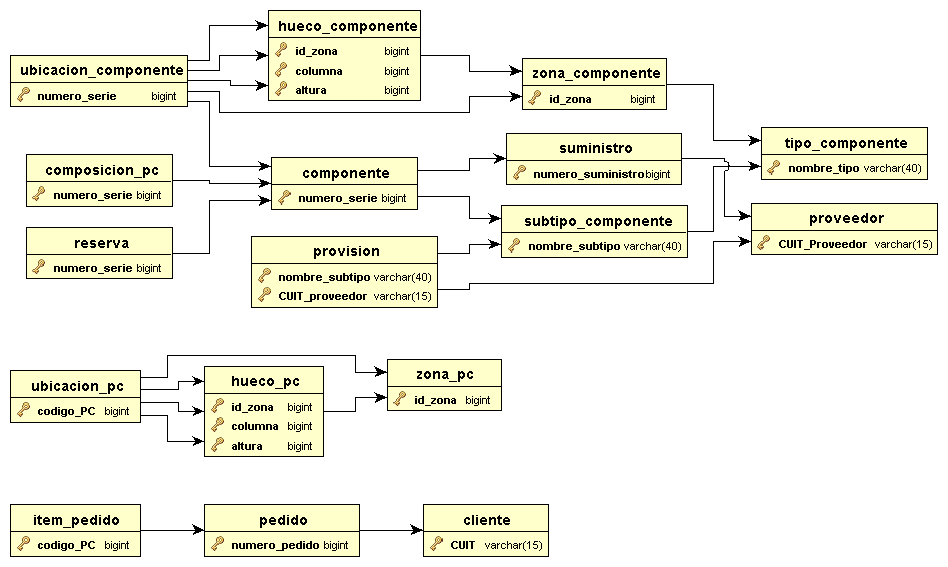
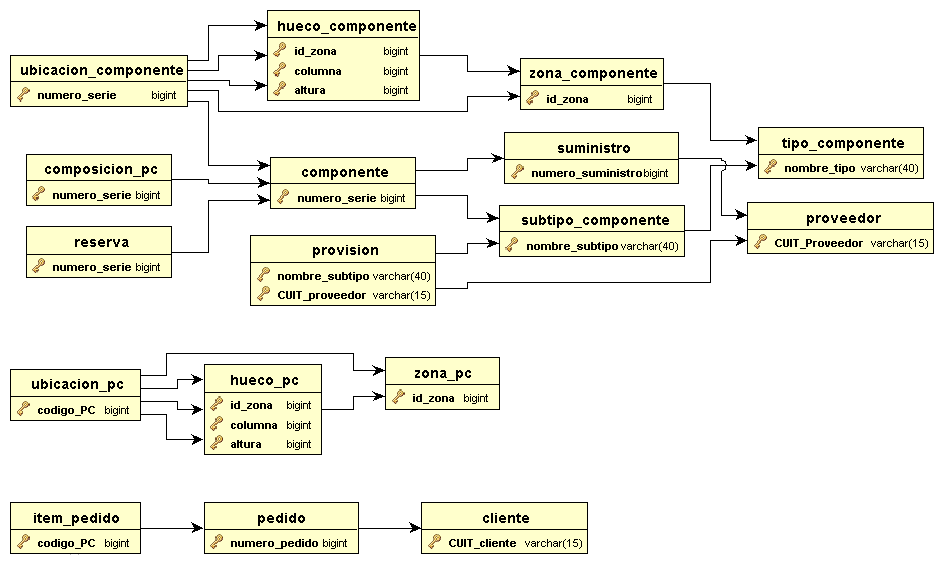
DDL actualizadas. Pequeños cambios en relaciones (un par de atributos que pueden ser nulos no estaban especificados). No compilé el informe, ahora booteo kubuntu y veo si puedo...DDL actualizadas. Pequeños cambios en relaciones (un par de atributos que pueden ser nulos no estaban especificados). No 

diff --git a/trunk/Informe.tex b/trunk/Informe.tex
@@ -3,6 +3,7 @@
 \usepackage [T1]{fontenc}
 \usepackage [latin1]{inputenc}
 \usepackage{graphicx} 
+\usepackage{verbatim}
 \usepackage{array}
 	  \oddsidemargin 0in
       \textwidth 6.75in
@@ -120,8 +121,8 @@
 	\input{relaciones}
 
 		
-	\subsection{Sentencias DDL}		
-
+	\subsection{Sentencias DDL}
+		\verbatiminput{ddl.sql}
 	
 	
 

diff --git a/trunk/relaciones.tex b/trunk/relaciones.tex
@@ -207,6 +207,7 @@
 			\end{itemize}
 		\subsubsection*{Atributos que pueden tomar valores nulos}
 			\begin{itemize}
+				\item descripcion
 				\item stock\_minimo
 			\end{itemize}
 		
